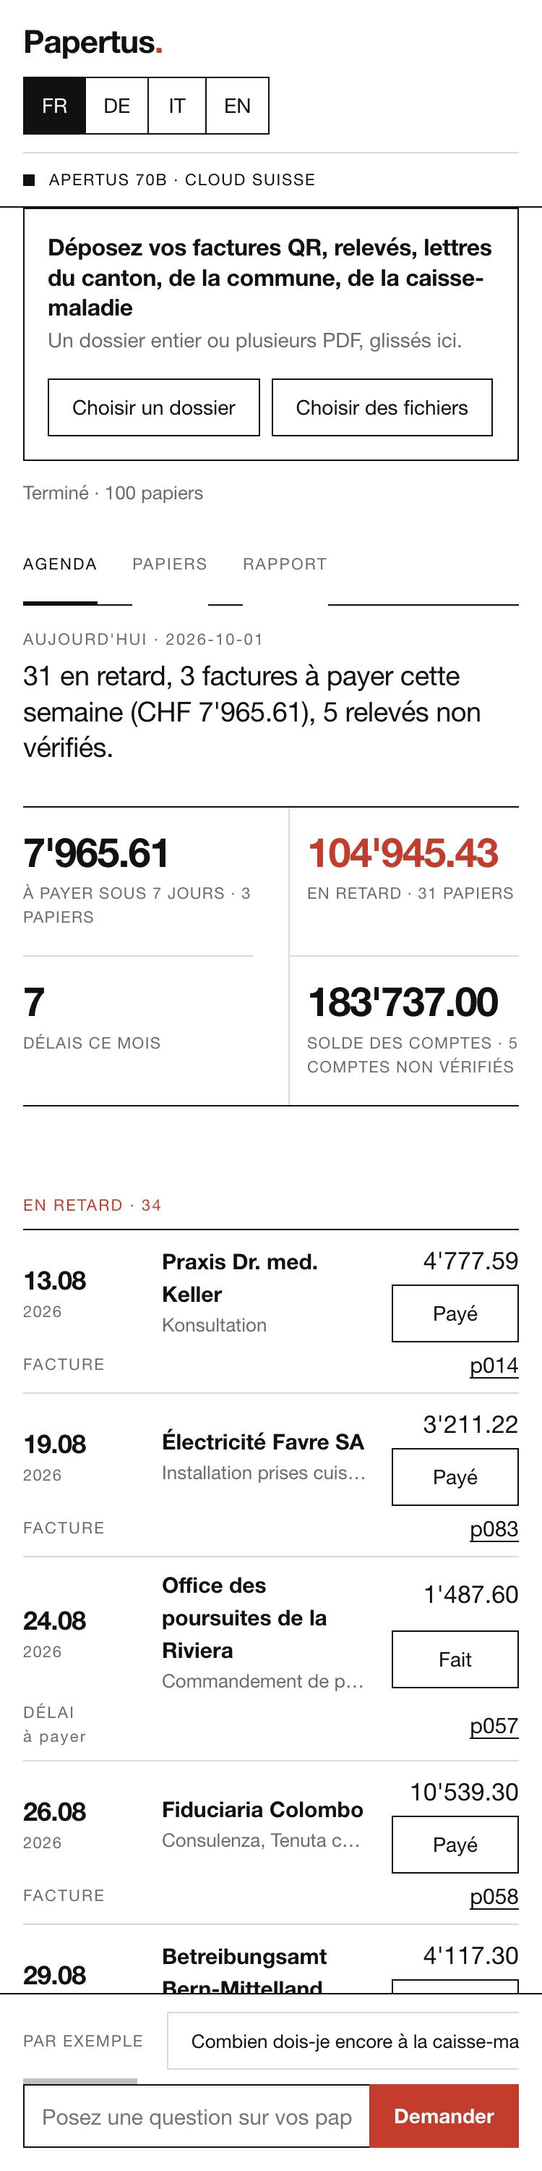
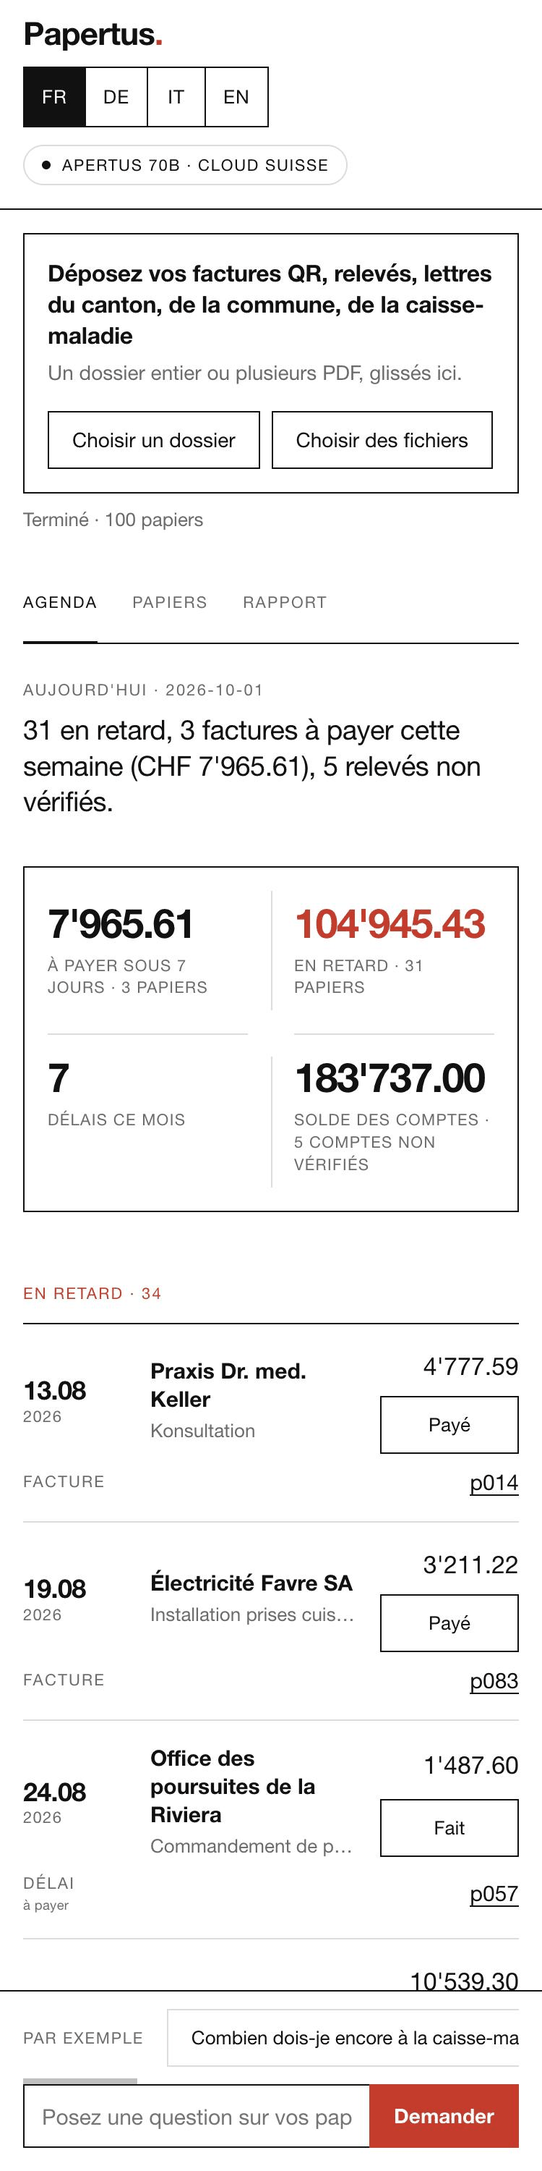
Craft pass: spacing scale, framed figures, fixed agenda grid, reasons on their own line, thumbnails

diff --git a/track_2b/src/papertus/web.py b/track_2b/src/papertus/web.py
@@ -501,164 +501,190 @@ PAGE = r"""<!doctype html>
 <meta name="viewport" content="width=device-width, initial-scale=1">
 <title>{{APP}}</title>
 <style>
-/* Style international suisse : une grille, du blanc, du noir, un seul rouge. */
-:root { --ink:#111; --paper:#fff; --grey:#6b6b6b; --rule:#111; --hair:#d9d9d9; --soft:#f4f4f4; --red:#d52b1e; }
+/* Style international suisse, avec le soin du détail : une échelle d'espacement (8/16/24/32/48),
+   un seul filet entre deux choses, jamais deux ; noir sur blanc, un seul rouge. */
+:root { --ink:#111; --paper:#fff; --grey:#6b6b6b; --rule:#111; --hair:#dcdcdc; --soft:#f4f4f4; --red:#d52b1e;
+  --s1:8px; --s2:16px; --s3:24px; --s4:32px; --s6:48px; }
 * { box-sizing:border-box; }
 html, body { margin:0; background:var(--paper); color:var(--ink);
   font-family:"Helvetica Neue", Helvetica, Arial, -apple-system, BlinkMacSystemFont, sans-serif; font-size:15px; line-height:1.5;
   -webkit-font-smoothing:antialiased; }
+body { padding-bottom:160px; }  /* remplacé au chargement par la hauteur réelle de la barre de question */
 a { color:var(--ink); }
 a.pid { color:var(--ink); text-decoration:none; border-bottom:1px solid var(--ink); font-variant-numeric:tabular-nums; }
-.label { display:block; font-size:11px; letter-spacing:.08em; text-transform:uppercase; color:var(--grey); font-weight:400; }
+.label { display:block; font-size:11px; letter-spacing:.08em; text-transform:uppercase; color:var(--grey); font-weight:400; line-height:1.4; }
 .num, .amt { font-variant-numeric:tabular-nums; }
 :focus-visible { outline:2px solid var(--ink); outline-offset:2px; }
+[hidden] { display:none !important; }
 
 /* la grille : 12 colonnes, gouttières de 24 px, marges de 32 px */
-.wrap { max-width:1280px; margin:0 auto; padding:0 32px; }
-.grid { display:grid; grid-template-columns:repeat(12, minmax(0, 1fr)); column-gap:24px; }
+.wrap { max-width:1280px; margin:0 auto; padding:0 var(--s4); }
+.grid { display:grid; grid-template-columns:repeat(12, minmax(0, 1fr)); column-gap:var(--s3); }
 
+/* en-tête : marque, slogan, langues ; dessous la capsule d'état ; un seul filet sous l'ensemble */
 header { border-bottom:1px solid var(--rule); }
 header .grid { align-items:center; min-height:72px; }
-.mark { grid-column:1 / span 3; font-size:26px; font-weight:700; letter-spacing:-.02em; margin:0; }
+.mark { grid-column:1 / span 3; font-size:24px; font-weight:700; letter-spacing:-.02em; margin:0; line-height:1; }
 .mark b { color:var(--red); }
 .tag { grid-column:4 / span 5; color:var(--grey); font-size:14px; }
-.langs { grid-column:9 / span 4; display:flex; justify-content:flex-end; gap:0; }
-.pill { font-size:11px; letter-spacing:.08em; text-transform:uppercase; border-top:1px solid var(--hair); padding:10px 0; display:flex; align-items:center; gap:10px; }
-.pill i { width:8px; height:8px; background:var(--ink); display:inline-block; }
+.langs { grid-column:9 / span 4; display:flex; justify-content:flex-end; }
+.langs .sw { display:inline-flex; border:1px solid var(--ink); }
+.langs button { border:none; border-left:1px solid var(--ink); min-width:40px; min-height:40px; padding:0 12px; font-size:13px; letter-spacing:.04em; }
+.langs button:first-child { border-left:none; }
+.langs button.on { background:var(--ink); color:var(--paper); }
+.pill { display:inline-flex; align-items:center; gap:var(--s1); margin:0 0 var(--s2); padding:0 12px; min-height:28px;
+  border:1px solid var(--hair); border-radius:999px; font-size:11px; letter-spacing:.08em; text-transform:uppercase; color:var(--ink); }
+.pill i { width:6px; height:6px; background:var(--ink); border-radius:50%; display:inline-block; }
 
-button, .btn { min-height:40px; min-width:40px; padding:0 16px; border:1px solid var(--ink); background:var(--paper); color:var(--ink);
-  font:inherit; font-size:14px; border-radius:0; cursor:pointer; display:inline-flex; align-items:center; justify-content:center; text-decoration:none; }
+button, .btn { min-height:40px; min-width:40px; padding:0 var(--s2); border:1px solid var(--ink); background:var(--paper); color:var(--ink);
+  font:inherit; font-size:14px; line-height:1; border-radius:0; cursor:pointer; display:inline-flex; align-items:center; justify-content:center; text-decoration:none; }
 button.on, .btn.on { background:var(--ink); color:var(--paper); }
-button.primary { background:var(--red); border-color:var(--red); color:#fff; font-weight:700; }
+button.primary, .btn.primary { background:var(--red); border-color:var(--red); color:#fff; font-weight:700; }
 button:disabled { opacity:.4; cursor:default; }
-.langs button { border-left-width:0; }
-.langs button:first-child { border-left-width:1px; }
 
-main { padding:32px 0 220px; }
-.drop { grid-column:1 / span 12; border:1px solid var(--ink); padding:24px; display:grid; grid-template-columns:minmax(0,1fr) auto; gap:16px 24px; align-items:center; }
+main.wrap { padding-top:var(--s3); }
+
+/* la zone de dépôt : un cadre, 24 px dedans, les boutons alignés au milieu */
+.drop { grid-column:1 / span 12; border:1px solid var(--ink); padding:var(--s3); display:grid; grid-template-columns:minmax(0,1fr) auto; gap:var(--s2) var(--s3); align-items:center; }
 .drop.over { background:var(--soft); }
-.drop strong { display:block; font-size:18px; font-weight:700; letter-spacing:-.01em; line-height:1.3; }
-.drop span.hint { color:var(--grey); font-size:14px; }
-.drop .acts { display:flex; gap:8px; flex-wrap:wrap; }
+.drop strong { display:block; font-size:17px; font-weight:700; letter-spacing:-.01em; line-height:1.35; }
+.drop span.hint { display:block; color:var(--grey); font-size:14px; margin-top:4px; }
+.drop .acts { display:flex; gap:var(--s1); flex-wrap:wrap; }
 input[type=file] { display:none; }
-.empty-line { grid-column:1 / span 8; font-size:22px; line-height:1.35; letter-spacing:-.01em; margin:0 0 24px; }
-.progress { grid-column:1 / span 12; font-size:13px; color:var(--grey); min-height:20px; margin-top:12px; font-variant-numeric:tabular-nums; }
+.empty-line { grid-column:1 / span 8; font-size:22px; line-height:1.35; letter-spacing:-.01em; margin:0 0 var(--s3); }
+.progress { grid-column:1 / span 12; font-size:13px; color:var(--grey); min-height:20px; margin-top:var(--s1); font-variant-numeric:tabular-nums; }
 .progress .err { color:var(--red); }
 
-.tabs { grid-column:1 / span 12; display:flex; gap:32px; margin:40px 0 24px; border-bottom:1px solid var(--rule); }
-.tabs button { border:none; border-bottom:3px solid transparent; padding:0 0 10px; min-height:44px; font-size:11px; letter-spacing:.1em; text-transform:uppercase; color:var(--grey); margin-bottom:-1px; }
+/* les onglets : un seul filet ; le trait de l'onglet actif est posé SUR ce filet */
+.tabs { grid-column:1 / span 12; display:flex; gap:var(--s4); margin:var(--s6) 0 var(--s4); border-bottom:1px solid var(--rule); }
+.tabs button { border:none; border-bottom:2px solid transparent; margin-bottom:-1px; padding:0 0 12px; min-height:44px; font-size:11px; letter-spacing:.1em; text-transform:uppercase; color:var(--grey); background:none; }
 .tabs button.on { color:var(--ink); border-bottom-color:var(--ink); background:none; }
-.panel { display:none; grid-column:1 / span 12; } .panel.on { display:grid; grid-template-columns:repeat(12, minmax(0, 1fr)); column-gap:24px; }
+.panel { display:none; grid-column:1 / span 12; } .panel.on { display:grid; grid-template-columns:repeat(12, minmax(0, 1fr)); column-gap:var(--s3); }
 
+/* agenda */
+.agenda .today { grid-column:1 / span 10; font-size:24px; line-height:1.3; letter-spacing:-.015em; margin:0 0 var(--s4); }
+.agenda .today b { font-weight:400; color:var(--grey); display:block; font-size:11px; letter-spacing:.1em; text-transform:uppercase; margin-bottom:var(--s1); line-height:1.4; }
+.figs { grid-column:1 / span 12; display:grid; grid-template-columns:repeat(4, minmax(0,1fr)); border:1px solid var(--ink); padding:var(--s2) 0; margin-bottom:var(--s3); }
+.fig { position:relative; padding:var(--s1) var(--s3); }
+.fig + .fig::before { content:""; position:absolute; left:0; top:0; bottom:0; width:1px; background:var(--hair); }
+.fig .n { font-size:40px; font-weight:700; letter-spacing:-.03em; line-height:1; font-variant-numeric:tabular-nums; }
+.fig.red .n { color:var(--red); }
+.fig .u { font-size:11px; color:var(--grey); letter-spacing:.06em; text-transform:uppercase; margin-top:var(--s1); line-height:1.4; }
+.events { grid-column:1 / span 12; }
+.events h3 { font-size:11px; letter-spacing:.1em; text-transform:uppercase; font-weight:400; color:var(--grey); margin:var(--s3) 0 0; padding-bottom:12px; border-bottom:1px solid var(--rule); }
+.events h3.red { color:var(--red); }
+.ev { display:grid; grid-template-columns:88px 96px minmax(0,1fr) 140px 96px 56px; column-gap:var(--s2); align-items:center; padding:var(--s2) 0; }
+.ev + .ev { border-top:1px solid var(--hair); }
+.ev .d { font-size:20px; font-weight:700; letter-spacing:-.02em; font-variant-numeric:tabular-nums; white-space:nowrap; line-height:1.1; }
+.ev .d small { display:block; font-size:11px; font-weight:400; color:var(--grey); letter-spacing:.06em; margin-top:2px; }
+.ev .k { font-size:11px; letter-spacing:.1em; color:var(--grey); min-width:0; overflow-wrap:anywhere; line-height:1.5; }
+.ev .k small { display:block; letter-spacing:.02em; text-transform:none; }
+.ev .w { min-width:0; }
+.ev .w .who { font-weight:600; line-height:1.3; }
+.ev .w .what { color:var(--grey); font-size:13px; overflow:hidden; text-overflow:ellipsis; white-space:nowrap; margin-top:2px; }
+.ev .w .why { color:var(--grey); font-size:12px; margin-top:4px; line-height:1.4; }
+.ev .a { text-align:right; font-variant-numeric:tabular-nums; font-size:17px; white-space:nowrap; }
+.ev .a.blank { color:var(--grey); font-size:12px; letter-spacing:.04em; }
+.ev .a .st { display:block; font-size:11px; color:var(--grey); letter-spacing:.06em; margin-top:2px; }
+.ev button { width:96px; padding:0; font-size:13px; }
+.ev button.on { background:var(--ink); color:var(--paper); }
+.ev.done .d, .ev.done .k, .ev.done .w, .ev.done .a { color:var(--grey); }
+.ev .p { text-align:right; }
+.reminders { grid-column:1 / span 12; display:flex; flex-wrap:wrap; gap:12px var(--s3); align-items:center; margin-top:var(--s6); padding-top:var(--s3); border-top:1px solid var(--rule); }
+.reminders .hint { color:var(--grey); font-size:13px; flex:1 1 320px; }
+
+/* liste des papiers et fiche */
 .list { grid-column:1 / span 4; border-top:1px solid var(--rule); max-height:72vh; overflow:auto; }
-.list .row { display:grid; grid-template-columns:minmax(0,1fr) auto; gap:2px 12px; width:100%; min-height:56px; padding:10px 0;
-  border:none; border-bottom:1px solid var(--hair); background:none; text-align:left; cursor:pointer; font:inherit; border-radius:0; }
+.list .row { display:grid; grid-template-columns:minmax(0,1fr) auto; gap:2px 12px; width:100%; min-height:56px; padding:12px 0;
+  border:none; background:none; text-align:left; cursor:pointer; font:inherit; border-radius:0; }
+.list .row + .row { border-top:1px solid var(--hair); }
 .list .row.on { background:var(--soft); box-shadow:inset 3px 0 0 var(--ink); padding-left:12px; }
 .list .row .k { grid-column:1; font-size:11px; letter-spacing:.08em; text-transform:uppercase; color:var(--grey); }
 .list .row .f { grid-column:1; min-width:0; font-size:14px; overflow:hidden; text-overflow:ellipsis; white-space:nowrap; }
 .list .row .l { grid-column:2; grid-row:1 / span 2; align-self:center; font-size:11px; letter-spacing:.08em; text-transform:uppercase; color:var(--grey); }
-.list .empty, .facts .empty { padding:24px 0; color:var(--grey); }
-
+.list .empty, .facts .empty { padding:var(--s3) 0; color:var(--grey); }
 .facts { grid-column:5 / span 8; }
-.facts h2 { font-size:26px; font-weight:700; letter-spacing:-.02em; margin:0 0 4px; }
-.facts .meta { color:var(--grey); font-size:13px; margin-bottom:8px; display:flex; flex-wrap:wrap; gap:8px 24px; align-items:center; }
-.facts .readwith { color:var(--grey); font-size:12px; margin:0 0 20px; }
+.facts h2 { font-size:26px; font-weight:700; letter-spacing:-.02em; margin:0 0 var(--s1); line-height:1.1; }
+.facts .meta { color:var(--grey); font-size:13px; margin-bottom:var(--s1); display:flex; flex-wrap:wrap; gap:var(--s1) var(--s3); align-items:center; }
+.facts .readwith { color:var(--grey); font-size:12px; margin:0 0 var(--s3); }
+.facts > table { table-layout:fixed; }
+.facts col.c1 { width:200px; } .facts col.c2 { width:40px; }
+.facts th { font-size:11px; letter-spacing:.08em; text-transform:uppercase; color:var(--grey); font-weight:400; padding-top:15px; }
+.facts td.v { word-break:break-word; min-width:0; }
+.facts td.v.amt { font-size:28px; font-weight:700; letter-spacing:-.02em; line-height:1.1; }
+.facts td.blank { color:var(--grey); }
+.facts .reason { display:block; color:var(--grey); font-size:12px; font-weight:400; letter-spacing:0; margin-top:4px; line-height:1.4; }
 table { border-collapse:collapse; width:100%; font-size:15px; }
-th, td { text-align:left; padding:10px 12px 10px 0; border-bottom:1px solid var(--hair); vertical-align:top; }
+th, td { text-align:left; padding:12px var(--s2) 12px 0; border-bottom:1px solid var(--hair); vertical-align:top; }
 thead th { font-size:11px; letter-spacing:.08em; text-transform:uppercase; color:var(--grey); font-weight:400; border-bottom:1px solid var(--rule); }
 td.num, th.num { text-align:right; white-space:nowrap; }
 tr.total td { font-weight:700; border-top:1px solid var(--rule); border-bottom:none; }
 tr.warn td { color:var(--red); font-size:13px; }
-.facts > table { table-layout:fixed; }
-.facts th { width:34%; font-size:11px; letter-spacing:.08em; text-transform:uppercase; color:var(--grey); font-weight:400; padding-top:13px; }
 .g { display:inline-block; width:24px; font-weight:700; }
 .g.verified { color:var(--red); }
 .g.model { color:var(--ink); }
 .g.blank { color:var(--grey); }
-td.v { word-break:break-word; min-width:0; }
-.facts td:nth-child(2) { width:28px; }
-td.v.amt { font-size:22px; font-weight:700; letter-spacing:-.01em; line-height:1.2; }
-td.blank { color:var(--grey); }
-.reason { color:var(--grey); font-size:12px; }
 .muted { color:var(--grey); }
-.legend { font-size:12px; color:var(--grey); display:flex; gap:24px; flex-wrap:wrap; margin-top:16px; }
+.legend { font-size:12px; color:var(--grey); display:flex; gap:var(--s3); flex-wrap:wrap; margin-top:var(--s2); }
 .mov { margin:4px 0; font-size:13px; table-layout:auto; }
-.mov td { padding:3px 8px 3px 0; border-bottom:1px solid var(--hair); word-break:normal; }
+.mov td { padding:4px var(--s1) 4px 0; border-bottom:1px solid var(--hair); word-break:normal; }
+.mov tr:last-child td { border-bottom:none; }
 .mov td.num { width:1%; white-space:nowrap; }
 .mov td:nth-child(2) { width:98%; }
-details { margin-top:16px; } details summary { cursor:pointer; color:var(--grey); font-size:12px; letter-spacing:.08em; text-transform:uppercase; }
+details { margin-top:var(--s2); } details summary { cursor:pointer; color:var(--grey); font-size:12px; letter-spacing:.08em; text-transform:uppercase; }
 pre { white-space:pre-wrap; font-size:12px; background:var(--soft); padding:12px; max-height:320px; overflow:auto; font-family:"SF Mono", Menlo, Consolas, monospace; }
 
-.agenda .today { grid-column:1 / span 10; font-size:24px; line-height:1.3; letter-spacing:-.015em; margin:0 0 28px; }
-.agenda .today b { font-weight:400; color:var(--grey); display:block; font-size:11px; letter-spacing:.1em; text-transform:uppercase; margin-bottom:6px; }
-.figs { grid-column:1 / span 12; display:grid; grid-template-columns:repeat(4, minmax(0,1fr)); column-gap:24px; border-top:1px solid var(--rule); border-bottom:1px solid var(--rule); margin-bottom:32px; }
-.fig { padding:16px 0 18px; border-left:1px solid var(--hair); padding-left:16px; }
-.fig:first-child { border-left:none; padding-left:0; }
-.fig .n { font-size:36px; font-weight:700; letter-spacing:-.03em; line-height:1.05; font-variant-numeric:tabular-nums; }
-.fig.red .n { color:var(--red); }
-.fig .u { font-size:11px; color:var(--grey); letter-spacing:.06em; text-transform:uppercase; margin-top:6px; }
-.events { grid-column:1 / span 12; }
-.events h3 { font-size:11px; letter-spacing:.1em; text-transform:uppercase; font-weight:400; color:var(--grey); margin:28px 0 0; padding-bottom:8px; border-bottom:1px solid var(--rule); }
-.events h3.red { color:var(--red); }
-.ev { display:grid; grid-template-columns:96px 88px minmax(0,1fr) 120px auto 56px; gap:0 16px; align-items:center; min-height:56px; padding:8px 0; border-bottom:1px solid var(--hair); }
-.ev .d { font-size:20px; font-weight:700; letter-spacing:-.02em; font-variant-numeric:tabular-nums; white-space:nowrap; }
-.ev .d small { display:block; font-size:11px; font-weight:400; color:var(--grey); letter-spacing:.06em; }
-.ev .k { font-size:11px; letter-spacing:.1em; color:var(--grey); min-width:0; overflow-wrap:anywhere; }
-.ev .w { min-width:0; } .ev .w .who { font-weight:600; } .ev .w .what { color:var(--grey); font-size:13px; overflow:hidden; text-overflow:ellipsis; white-space:nowrap; }
-.ev .a { text-align:right; font-variant-numeric:tabular-nums; font-size:17px; white-space:nowrap; }
-.ev .a.blank { color:var(--grey); font-size:12px; white-space:normal; }
-.ev .a .st { display:block; font-size:11px; color:var(--grey); letter-spacing:.06em; }
-.ev button { min-width:88px; }
-.ev.done { color:var(--grey); } .ev.done .d, .ev.done .w .who { font-weight:400; text-decoration:line-through; }
-.ev .p { text-align:right; }
-.reminders { grid-column:1 / span 12; display:flex; flex-wrap:wrap; gap:12px 24px; align-items:center; margin-top:40px; padding-top:20px; border-top:1px solid var(--rule); }
-.reminders .hint { color:var(--grey); font-size:13px; flex:1 1 320px; }
-.bar { grid-column:1 / span 12; display:flex; flex-wrap:wrap; gap:8px 16px; align-items:center; margin-bottom:24px; }
+/* rapport */
+.bar { grid-column:1 / span 12; display:flex; flex-wrap:wrap; gap:var(--s1) var(--s2); align-items:center; margin-bottom:var(--s3); }
 select { min-height:40px; font:inherit; padding:0 12px; border:1px solid var(--ink); border-radius:0; background:var(--paper); }
 .report #report { grid-column:1 / span 12; overflow-x:auto; }
 .report td.d, .report td.num { white-space:nowrap; }
-.report h2 { font-size:26px; font-weight:700; letter-spacing:-.02em; margin:0 0 24px; }
-.report h3 { font-size:11px; letter-spacing:.1em; text-transform:uppercase; font-weight:400; color:var(--grey); margin:32px 0 8px; }
-.report .prose { border-left:3px solid var(--red); padding:4px 0 4px 20px; margin:8px 0 0; max-width:720px; }
-.report .prose p { margin:0 0 8px; font-size:17px; line-height:1.5; }
+.report h2 { font-size:26px; font-weight:700; letter-spacing:-.02em; margin:0 0 var(--s3); line-height:1.1; }
+.report h3 { font-size:11px; letter-spacing:.1em; text-transform:uppercase; font-weight:400; color:var(--grey); margin:var(--s4) 0 var(--s1); }
+.report .prose { border-left:3px solid var(--red); padding:4px 0 4px 20px; margin:var(--s1) 0 0; max-width:720px; }
+.report .prose p { margin:0 0 var(--s1); font-size:17px; line-height:1.5; }
 
-.ask { position:fixed; left:0; right:0; bottom:0; background:var(--paper); border-top:1px solid var(--rule); padding:12px 0 16px; }
-.ask .chips { display:flex; gap:8px; overflow-x:auto; padding-bottom:10px; align-items:center; }
-.ask .chips .label { white-space:nowrap; margin-right:8px; }
+/* la barre de question : fixe, un filet dessus, fond blanc, jamais par-dessus le contenu */
+.ask { position:fixed; left:0; right:0; bottom:0; background:var(--paper); border-top:1px solid var(--rule); padding:12px 0 var(--s2); }
+.ask .chips { display:flex; flex-wrap:nowrap; gap:var(--s1); overflow-x:auto; padding-bottom:12px; align-items:center; -webkit-overflow-scrolling:touch; }
+.ask .chips .label { white-space:nowrap; margin-right:var(--s1); flex:0 0 auto; }
 .ask .chips button { flex:0 0 auto; white-space:nowrap; font-size:13px; color:var(--ink); border-color:var(--hair); }
 .ask .chips button:hover { border-color:var(--ink); }
-.ask .in { display:flex; gap:0; }
-.ask input { flex:1; min-height:44px; font:inherit; padding:0 12px; border:1px solid var(--ink); border-right:none; border-radius:0; }
+.ask .in { display:flex; }
+.ask input { flex:1; min-width:0; min-height:44px; font:inherit; padding:0 12px; border:1px solid var(--ink); border-right:none; border-radius:0; }
 .ask .in button { min-height:44px; }
 .ask .out { margin:12px 0 0; font-size:15px; display:none; max-width:900px; }
 .ask .out.on { display:block; }
 .ask .out .st { font-size:12px; color:var(--grey); margin-top:4px; }
 .ask .out .st .ok { color:var(--red); }
+
 @media (max-width:760px) {
-  .wrap { padding:0 16px; }
-  header .grid { min-height:auto; padding:12px 0; row-gap:8px; }
+  .wrap { padding:0 var(--s2); }
+  header .grid { min-height:auto; padding:12px 0 0; row-gap:12px; }
   .mark { grid-column:1 / span 12; font-size:22px; }
   .tag { display:none; }
   .langs { grid-column:1 / span 12; justify-content:flex-start; }
-  .langs button { padding:0 12px; }
-  .mov td { padding:3px 4px 3px 0; font-size:12px; }
-  .drop { grid-template-columns:1fr; padding:16px; }
+  .pill { margin:12px 0 var(--s2); }
+  main.wrap { padding-top:var(--s2); }
+  .drop { grid-template-columns:1fr; padding:var(--s2); }
   .drop strong { font-size:16px; }
   .empty-line { grid-column:1 / span 12; font-size:18px; }
-  .tabs { margin:24px 0 16px; gap:24px; }
+  .tabs { margin:var(--s4) 0 var(--s3); gap:var(--s3); }
   .list, .facts, .bar, .report #report { grid-column:1 / span 12; }
+  .list { max-height:36vh; margin-bottom:var(--s3); }
+  .facts col.c1 { width:120px; }
+  .facts td.v.amt { font-size:22px; }
   .agenda .today { grid-column:1 / span 12; font-size:19px; }
-  .figs { grid-template-columns:repeat(2, minmax(0,1fr)); }
-  .fig { padding-left:12px; } .fig:nth-child(3) { border-left:none; padding-left:0; }
-  .fig:nth-child(n+3) { border-top:1px solid var(--hair); }
+  .figs { grid-template-columns:repeat(2, minmax(0,1fr)); padding:var(--s2) 0; }
+  .fig { padding:var(--s1) var(--s2); }
+  .fig:nth-child(3)::before { display:none; }
+  .fig:nth-child(n+3) { margin-top:var(--s2); padding-top:var(--s2); }
+  .fig:nth-child(n+3)::after { content:""; position:absolute; left:var(--s2); right:var(--s2); top:0; height:1px; background:var(--hair); }
+  .fig:nth-child(4)::before { top:var(--s2); }
   .fig .n { font-size:28px; }
-  .ev { grid-template-columns:80px minmax(0,1fr) auto; grid-template-areas:"d w a" "d w b" "k k p"; row-gap:4px; }
+  .ev { grid-template-columns:72px minmax(0,1fr) auto; grid-template-areas:"d w a" "d w b" "k k p"; row-gap:var(--s1); }
   .ev .d { grid-area:d; font-size:18px; } .ev .w { grid-area:w; } .ev .a { grid-area:a; } .ev button { grid-area:b; justify-self:end; }
   .ev .k { grid-area:k; } .ev .p { grid-area:p; }
-  .list { max-height:36vh; margin-bottom:24px; }
-  .facts th { width:40%; }
-  td.v.amt { font-size:20px; }
-  main { padding-bottom:240px; }
 }
 </style>
 </head>
@@ -766,8 +792,8 @@ select { min-height:40px; font:inherit; padding:0 12px; border:1px solid var(--i
     });
   }
   function renderLangs() {
-    $('langs').innerHTML = LANGS.map(function (l) {
-      return '<button class="' + (l === state.lang ? 'on' : '') + '" data-l="' + l + '" aria-label="' + l + '">' + l.toUpperCase() + '</button>'; }).join('');
+    $('langs').innerHTML = '<div class="sw">' + LANGS.map(function (l) {
+      return '<button class="' + (l === state.lang ? 'on' : '') + '" data-l="' + l + '" aria-label="' + l + '">' + l.toUpperCase() + '</button>'; }).join('') + '</div>';
     $('langs').querySelectorAll('button').forEach(function (b) { b.onclick = function () { setLang(b.getAttribute('data-l')); }; });
   }
   function renderChips() {
@@ -805,7 +831,7 @@ select { min-height:40px; font:inherit; padding:0 12px; border:1px solid var(--i
     var st = f ? f.status : 'blank', v = f ? f.value : null, reason = f ? f.reason : 'missing';
     var html = '<tr><th>' + esc(T('field.' + key)) + '</th><td><span class="g ' + st + '" title="' + esc(T('status.' + st)) + '">' + glyph(st) + '</span></td>';
     if (v == null) {
-      html += '<td class="v blank">' + esc(T('status.blank')) + (reason ? ' <span class="reason">· ' + esc(T('status.reason')) + ' : ' + esc(reason) + '</span>' : '') + '</td>';
+      html += '<td class="v blank">' + esc(T('status.blank')) + (reason ? '<span class="reason">' + esc(T('status.reason')) + ' : ' + esc(reason) + '</span>' : '') + '</td>';
     } else if (key === 'movements' && Array.isArray(v)) {
       html += '<td class="v"><table class="mov">' + v.map(function (m) {
         return '<tr><td class="num">' + esc(m.date || '') + '</td><td>' + esc(m.label || '') + '</td><td class="num">' + chf(m.amount) + '</td></tr>'; }).join('') + '</table>';
@@ -814,8 +840,8 @@ select { min-height:40px; font:inherit; padding:0 12px; border:1px solid var(--i
     } else {
       var isAmt = (typeof v === 'number') && AMOUNT_KEYS[key];
       var shown = (typeof v === 'number') ? chf(v) : (key === 'letter_kind' ? words('letter_kind', v) : (key === 'action_required' ? words('action', v) : String(v)));
-      html += '<td class="v' + (isAmt ? ' amt num' : '') + '">' + esc(shown) + (st === 'model' && reason ? ' <span class="reason">· ' + esc(reason) + '</span>' : '') +
-        (st === 'verified' && f.source ? ' <span class="reason">· ' + esc(f.source) + '</span>' : '') + '</td>';
+      html += '<td class="v' + (isAmt ? ' amt' : '') + '">' + esc(shown) + (st === 'model' && reason ? '<span class="reason">' + esc(reason) + '</span>' : '') +
+        (st === 'verified' && f.source ? '<span class="reason">' + esc(T('status.verified')) + ' · ' + esc(f.source) + '</span>' : '') + '</td>';
     }
     return html + '</tr>';
   }
@@ -830,7 +856,7 @@ select { min-height:40px; font:inherit; padding:0 12px; border:1px solid var(--i
       '<a class="btn" href="/api/paper/' + esc(p.id) + '/file" target="_blank">' + esc(T('paper.open')) + '</a></div>' +
       (p.read_with && p.read_with.size ? '<p class="readwith">' + esc(T('paper.read_with').replace('{model}',
         T(p.read_with.local ? 'status.local' : 'status.cloud').replace('{size}', p.read_with.size))) + '</p>' : '') +
-      '<table>' + rows + '</table>' +
+      '<table><colgroup><col class="c1"><col class="c2"><col></colgroup>' + rows + '</table>' +
       '<div class="legend"><span><span class="g verified">✓</span> ' + esc(T('status.verified')) + '</span>' +
       '<span><span class="g model">•</span> ' + esc(T('status.model')) + '</span>' +
       '<span><span class="g blank">—</span> ' + esc(T('status.blank')) + '</span></div>' +
@@ -921,13 +947,14 @@ select { min-height:40px; font:inherit; padding:0 12px; border:1px solid var(--i
       html += '<h3 class="' + (g === 'overdue' ? 'red' : '') + '">' + esc(T('agenda.group.' + g)) + ' · ' + evs.length + '</h3>';
       evs.forEach(function (e) {
         var amt = e.amount == null
-          ? '<div class="a blank">' + esc(e.kind === 'statement' ? T('agenda.unverified') + (e.amount_reason ? ' · ' + e.amount_reason : '') : '—') + '</div>'
+          ? '<div class="a blank">' + esc(e.kind === 'statement' ? T('agenda.unverified') : '—') + '</div>'
           : '<div class="a">' + chf(e.amount) + (e.kind === 'statement' ? '<span class="st">' + esc(T('field.closing_balance')) + '</span>' : '') + '</div>';
+        var why = (e.kind === 'statement' && e.amount == null && e.amount_reason) ? '<div class="why">' + esc(e.amount_reason) + '</div>' : '';
         var btn = e.kind === 'bill' ? 'agenda.paid' : 'agenda.done';
         html += '<div class="ev' + (e.done ? ' done' : '') + '" data-id="' + esc(e.id) + '">' +
           '<div class="d">' + esc(fmtDay(e.date)) + '<small>' + esc(e.date.slice(0, 4)) + '</small></div>' +
-          '<div class="k">' + esc(T('agenda.kind.' + e.kind)) + (e.action && e.action !== 'none' ? '<br>' + esc(words('action', e.action)) : '') + '</div>' +
-          '<div class="w"><div class="who">' + esc(e.who || '—') + '</div><div class="what">' + esc(e.what || '') + '</div></div>' + amt +
+          '<div class="k">' + esc(T('agenda.kind.' + e.kind)) + (e.action && e.action !== 'none' ? '<small>' + esc(words('action', e.action)) + '</small>' : '') + '</div>' +
+          '<div class="w"><div class="who">' + esc(e.who || '—') + '</div>' + (e.what ? '<div class="what" title="' + esc(e.what) + '">' + esc(e.what) + '</div>' : '') + why + '</div>' + amt +
           '<button type="button" class="' + (e.done ? 'on' : '') + '" data-done="' + (e.done ? '0' : '1') + '" title="' + esc(e.done ? T('agenda.undo') : '') + '">' + esc(e.done ? '✓ ' + T(btn) : T(btn)) + '</button>' +
           '<div class="p"><a class="pid" href="#" data-open="' + esc(e.paper_id) + '">' + esc(e.paper_id) + '</a></div></div>';
       });
@@ -983,6 +1010,11 @@ select { min-height:40px; font:inherit; padding:0 12px; border:1px solid var(--i
         $('askbtn').disabled = false;
       }).catch(function () { out.innerHTML = '<span class="muted">' + esc(T('error')) + '</span>'; $('askbtn').disabled = false; });
   };
+
+  // --- la barre de question ne couvre jamais le contenu -----------------------
+  function padForAsk() { document.body.style.paddingBottom = (document.querySelector('.ask').offsetHeight + 24) + 'px'; }
+  window.addEventListener('resize', padForAsk); padForAsk();
+  new MutationObserver(padForAsk).observe($('out'), { childList: true, subtree: true });
 
   // --- départ ---------------------------------------------------------------
   // L'adresse peut préciser ?lang=de&paper=p050&tab=report&q=… (lien partageable, captures d'écran).
